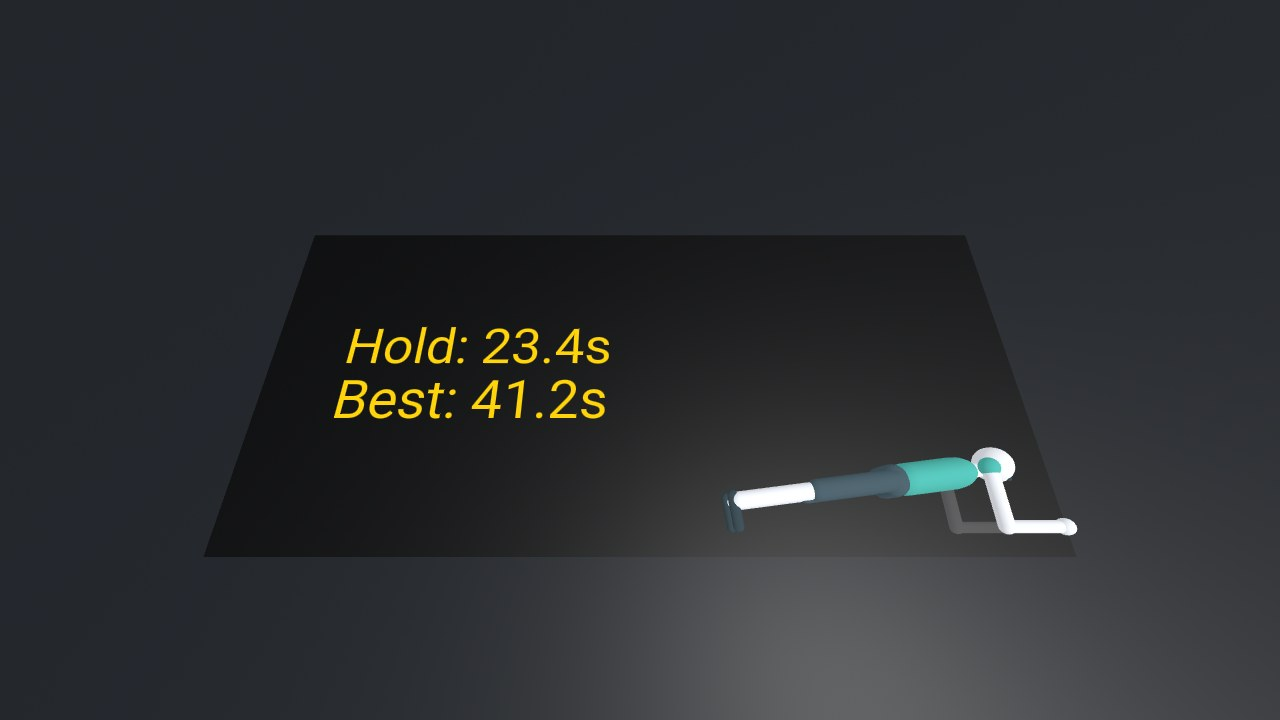
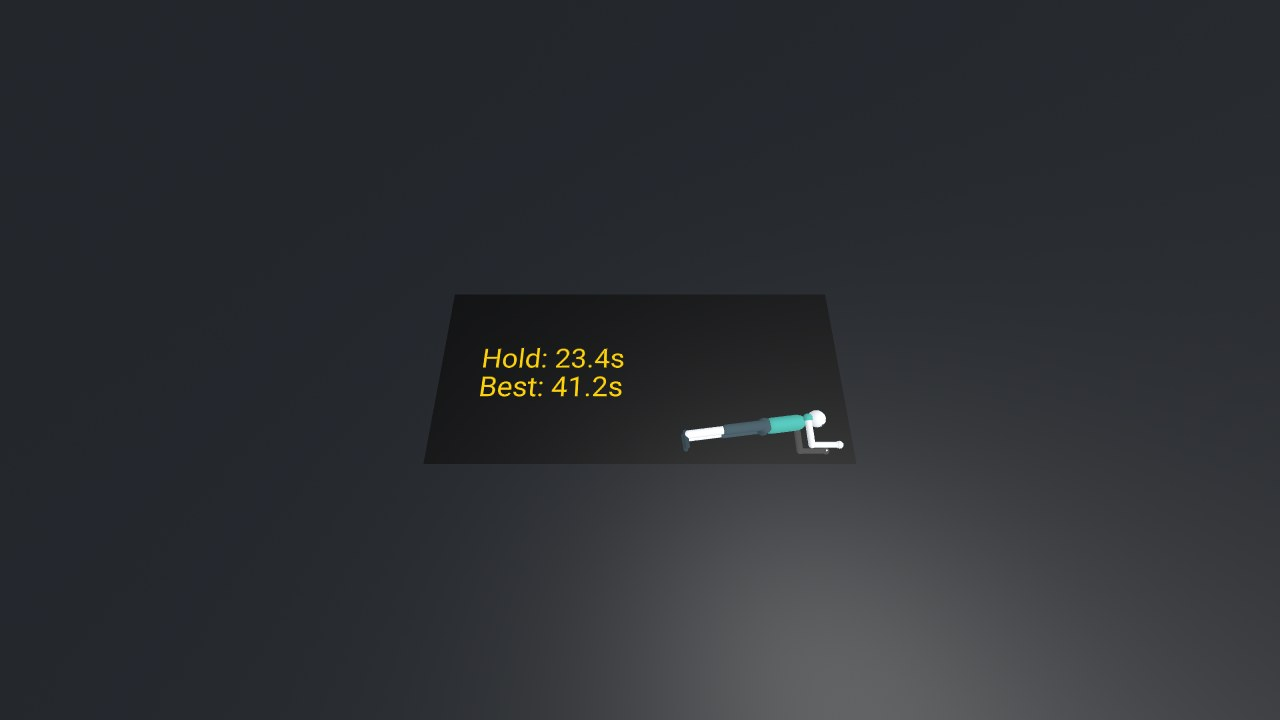
Smaller face counter; preview the next exercise during rests
The counter near the face is scaled to its distance from the eyes (about
50 deg wide): at full size it didn't fit in view on the floor under a
plank. During a rest, a smaller mannequin in an "UP NEXT" card under the
countdown shows the next exercise, while the big one keeps resting.
Tests: the counter's apparent width, every demo inside the card, the
countdown above it, and the card only during rests.

Changed region(s): [[0.1562, 0.3056, 0.5, 0.7944], [0.5312, 0.55, 0.8438, 0.7639], [0.1875, 0.5194, 0.2188, 0.55]]

diff --git a/www/js/app.js b/www/js/app.js
@@ -73,6 +73,12 @@ const NEAR_PANEL = 0.9;
 const FLOOR_AHEAD = 0.2;
 const FACE_DOWN = -0.5;
 const FACE_AHEAD = 0.7;
+// It is scaled to its distance from the eyes so it always spans about
+// FACE_LABEL_WIDTH meters per meter away (~50 deg, at most full size): on
+// the floor under a plank it's only 30-40 cm away, and at full size (1 m
+// wide) it didn't fit in view.
+const FACE_LABEL_WIDTH = 0.93;
+const FACE_LABEL_FULL = 1.0;   // #floorLabel's width at scale 1
 
 // Menu follow (XR only): when the menu is on screen and the user has turned
 // more than FOLLOW_ANGLE degrees away from it, or walked more than
@@ -112,9 +118,11 @@ const PANEL_HEAD = new THREE.Vector3();
 // Exercise vs rest look: rest gets a blue panel and a cyan countdown so it
 // can't be mistaken for an exercise. Panels are nearly opaque: over
 // passthrough, a see-through panel is hard to read.
+// During a rest the countdown moves up (counterY), making room for the
+// "UP NEXT" card under it (#nextCard, see showNext()).
 const LOOK = {
-  exercise: { bg: '#000000', opacity: 0.88, counter: '#ffeb3b' },
-  rest: { bg: '#0b3d5c', opacity: 0.92, counter: '#80deea' },
+  exercise: { bg: '#000000', opacity: 0.88, counter: '#ffeb3b', counterY: 0.05 },
+  rest: { bg: '#0b3d5c', opacity: 0.92, counter: '#80deea', counterY: 0.47 },
 };
 // Seconds before the end of a rest when the title turns to "GET READY"
 // (together with the countdown beeps).
@@ -158,9 +166,13 @@ export const gymApp = {
     this.floorLabel = document.querySelector('#floorLabel');
     this.floorLabelText = document.querySelector('#floorLabelText');
     // Demo avatars: on the exercise panel, and a small one on the floor
-    // counter (floor exercises). Both show the same pose.
+    // counter (floor exercises). Both show the same pose. A third one, in
+    // the "UP NEXT" card, previews the next exercise during a rest.
     this.mannequin = buildMannequin(document.querySelector('#demoAvatar'), 'mannequin');
     this.floorMannequin = buildMannequin(document.querySelector('#floorAvatar'), 'floorMannequin');
+    this.nextCard = document.querySelector('#nextCard');
+    this.nextMannequin = buildMannequin(document.querySelector('#nextAvatar'), 'nextMannequin');
+    this.next = null;
     this.current = null;
     this.run = null;
     this.clock = 0;
@@ -341,12 +353,14 @@ export const gymApp = {
     if (!low || gazeY(head) > FACE_DOWN) {
       o.position.set(0, 0, -FACE_AHEAD).applyQuaternion(head.quaternion).add(head.position);
       o.quaternion.copy(head.quaternion);
-      return;
+    } else {
+      const dir = this.headingOnFloor(head);
+      o.position.set(head.position.x + dir.x * FLOOR_AHEAD, 0.01, head.position.z + dir.z * FLOOR_AHEAD);
+      // Lie flat, with the top of the text pointing away from the user.
+      o.rotation.set(-Math.PI / 2, Math.atan2(-dir.x, -dir.z), 0, 'YXZ');
     }
-    const dir = this.headingOnFloor(head);
-    o.position.set(head.position.x + dir.x * FLOOR_AHEAD, 0.01, head.position.z + dir.z * FLOOR_AHEAD);
-    // Lie flat, with the top of the text pointing away from the user.
-    o.rotation.set(-Math.PI / 2, Math.atan2(-dir.x, -dir.z), 0, 'YXZ');
+    const width = FACE_LABEL_WIDTH * o.position.distanceTo(head.position);
+    o.scale.setScalar(Math.min(1, width / FACE_LABEL_FULL));
   },
   // Is the head too close to the exercise panel to read it (or behind it)?
   nearPanel: function (head) {
@@ -395,16 +409,20 @@ export const gymApp = {
     setShown(this.exercisePanel, false);
     this.mannequin.root.setAttribute('visible', false);
     this.floorLabel.setAttribute('visible', false);
+    this.showNext(null);
   },
   setLook: function (name) {
     const look = LOOK[name];
     this.exerciseBg.setAttribute('material', { color: look.bg, opacity: look.opacity });
+    const pos = this.repText.getAttribute('position');
+    this.repText.setAttribute('position', { x: pos.x, y: look.counterY, z: pos.z });
     this.repText.setAttribute('color', look.counter);
     this.floorLabelText.setAttribute('color', look.counter);
   },
   // Exercise screen, shared by single exercises and training sets.
   showExerciseScreen: function (skippable) {
     this.setLook('exercise');
+    this.showNext(null);
     this.clock = 0;
     this.lastMoves = 0;
     setShown(this.menuPanel, false);
@@ -432,13 +450,15 @@ export const gymApp = {
     this.clock = 0;
     this.lastMoves = 0;
     this.setLook(run.phase === 'rest' ? 'rest' : 'exercise');
+    this.showNext(run.phase === 'rest' ? exerciseById(nextStep(run).exercise) : null);
     if (run.phase === 'exercise') {
       this.current = { ex: run.ex, st: run.st };
       this.titleText.setAttribute('value', `${run.index + 1}/${steps.length}  ${run.ex.name.toUpperCase()}`);
       this.instrText.setAttribute('value', `${describeStep(currentStep(run))}. ${run.ex.instructions}`);
       this.skipBtn.querySelector('a-text').setAttribute('value', 'Skip');
     } else if (run.phase === 'rest') {
-      // No exercise demo during rest: the mannequin idles (see tick).
+      // No exercise demo on the big mannequin during rest: it idles (see
+      // tick), and the next exercise shows in the smaller "UP NEXT" card.
       const next = exerciseById(nextStep(run).exercise);
       this.current = { ex: null, st: null };
       this.titleText.setAttribute('value', 'REST');
@@ -513,6 +533,17 @@ export const gymApp = {
       resetPose(parts);
       pose(parts, this.clock);
     }
+    if (this.next) {
+      resetPose(this.nextMannequin);
+      this.next.demo(this.nextMannequin, this.clock);
+    }
+  },
+  // The "UP NEXT" card during a rest: the next exercise's demo, or null to
+  // hide it.
+  showNext: function (ex) {
+    this.next = ex;
+    this.nextCard.setAttribute('visible', !!ex);
+    if (ex) centerDemo(this.nextMannequin, ex.demo);
   },
   // Center the demo avatars on a new pose (see centerDemo() in avatar.js).
   centerAvatars: function (pose) {

diff --git a/www/index.html b/www/index.html
@@ -90,6 +90,14 @@
         width="1.45" wrap-count="19" color="#ffeb3b"></a-text>
       <a-plane id="demoFrame" width="1.24" height="1.46" position="0.78 0.13 0.005" color="#fff" opacity="0.07"></a-plane>
       <a-entity id="demoAvatar" position="0.66 -0.36 0.3" scale="0.45 0.45 0.45"></a-entity>
+      <!-- During a rest: what comes next, in a card under the countdown, with
+           a smaller mannequin (#nextAvatar) doing the next exercise's demo,
+           while the big one rests (see showNext() in app.js). -->
+      <a-entity id="nextCard" position="-0.66 -0.22 0" visible="false">
+        <a-plane id="nextFrame" width="1.28" height="1.0" position="0 0 0.005" color="#fff" opacity="0.07"></a-plane>
+        <a-text id="nextTitle" value="UP NEXT" align="center" position="0 0.43 0.01" width="1.3" color="#80deea"></a-text>
+        <a-entity id="nextAvatar" position="0 -0.31 0.24" scale="0.32 0.32 0.32"></a-entity>
+      </a-entity>
       <a-entity id="btnBack" class="button" geometry="primitive:plane; width:0.68; height:0.3"
         material="color:#555" position="-0.9 -0.9 0.01">
         <a-text value="Menu" align="center" position="0 0 0.01" color="#fff" width="2.4"></a-text>

diff --git a/CLAUDE.md b/CLAUDE.md
@@ -70,7 +70,7 @@ www/
   - `paced: true` (from `paced()`) marks untracked exercises: the app counts reps at a fixed tempo and plays a tick per rep
   - `equipment` (optional): `'chair' | 'band' | 'weights'`; `floor: true` for floor exercises. Together they give the menu group (`groupOf()` / `GROUPS` in `exercises/index.js`: Standing, Floor, Chair, Band, Weights). Everything must be doable at home with at most a chair, an elastic band or dumbbells. With a band or dumbbells in the hands the controllers can't be held, so those exercises must not rely on controllers (headset-tracked or paced).
   - `demo(parts, tSeconds)` poses the mannequin; it's reset to standing before every call
-- Training sets (`js/workouts.js`): `{ id, name, level, color, rest, steps: [{ exercise, reps } | { exercise, seconds }] }`, validated on load by `validateWorkout()`. `level` is one of `LEVELS` (`Easy`, `Medium`, `Hard`): harder = more reps, longer holds, shorter rests (`workout.mjs` checks the averages go that way). The equipment a set needs comes from its exercises (`equipmentOf()` in `workout-runner.js`) and shows on its menu button. The product direction is **training sets first, with configurable difficulty** (same exercises, other targets / rest). Single exercises stay for testing and debugging. `workout-runner.js` is pure logic: `updateRun()` / `skip()` return events (`stepDone`, `count`, `go`, `finished`, and `skipped` from `skip()`, so skipping into a rest still refreshes the screen), and `app.js` turns them into sounds (`sound.js`) and panel updates. Rest must never look like an exercise: blue panel and cyan countdown (`LOOK` / `setLook()` in `app.js`), the mannequin idles (`idle()` in `avatar.js`) instead of demoing the next exercise, and the title turns to `GET READY` for the last 3 s together with the countdown beeps. The next exercise's demo only appears when its step starts.
+- Training sets (`js/workouts.js`): `{ id, name, level, color, rest, steps: [{ exercise, reps } | { exercise, seconds }] }`, validated on load by `validateWorkout()`. `level` is one of `LEVELS` (`Easy`, `Medium`, `Hard`): harder = more reps, longer holds, shorter rests (`workout.mjs` checks the averages go that way). The equipment a set needs comes from its exercises (`equipmentOf()` in `workout-runner.js`) and shows on its menu button. The product direction is **training sets first, with configurable difficulty** (same exercises, other targets / rest). Single exercises stay for testing and debugging. `workout-runner.js` is pure logic: `updateRun()` / `skip()` return events (`stepDone`, `count`, `go`, `finished`, and `skipped` from `skip()`, so skipping into a rest still refreshes the screen), and `app.js` turns them into sounds (`sound.js`) and panel updates. Rest must never look like an exercise: blue panel and cyan countdown (`LOOK` / `setLook()` in `app.js`), the big mannequin idles (`idle()` in `avatar.js`) instead of demoing the next exercise, and the title turns to `GET READY` for the last 3 s together with the countdown beeps. The next exercise shows only as a preview: a smaller mannequin (`#nextAvatar`, root id `nextMannequin`) in the "UP NEXT" card (`#nextCard`, `showNext()` in `app.js`) under the countdown, which moves up during a rest (`LOOK.rest.counterY`). `avatar.mjs` checks every demo fits in that card, `textfit` that the countdown stays above it.
 - Sounds (`js/sound.js`): every finished step plays a sound (a fanfare for the last one), paced reps tick, and the rest counts down 3-2-1. Every other counted move plays a `ding` and pops the counter (`tickMoves()` / `popCounter()` in `app.js`). A move is what `movesOf()` in `exercises/index.js` returns: whole reps, 10 s of a hold, or an exercise's own `moves(st)` (curls: each arm's curl). A step's last move gets the step's sound instead of a ding. Browsers need a user gesture before audio plays, so handlers go through `onClick()` in `app.js`, which calls `unlockAudio()`.
 - Confetti (`js/components/confetti.js`, on `#confetti`, directly in the scene since it's placed in world space from the head pose): `throwConfetti()` in `app.js` bursts it 80 cm along the gaze on every `stepDone` (not on skips), with more pieces on `finished` (also when the last step was skipped: the set is still done). The pieces land and lie flat on the floor (y = 0), then shrink away. One `InstancedMesh`, so it stays cheap on a Quest.
 - Panels are nearly opaque (0.88; rest 0.92): at 0.65 they were too see-through to read comfortably over passthrough.
@@ -82,7 +82,7 @@ www/
 - Text: A-Frame's default font only has basic Latin characters. An em dash (—), middle dot (·) or similar just disappears, so use plain `-`, `:` or `,`. Keep `a-text` `width` (its wrap width) inside the panel.
 - Mannequin (`js/avatar.js`): joint tree `root > pelvis > spine > head / shoulderL,R > elbowL,R` and `pelvis > hipL,R > kneeL,R > ankleL,R`. `root` sits on the floor (y = 0) between the feet; `pelvis` is at `PELVIS_Y` when standing. Segment lengths are in `BODY`. Pose with `rot(el, x, y, z)` (degrees, writes `object3D` directly), `place(el, x, y, z)` and `turn(parts, deg)` (0 = facing the viewer, 90 = side view). `app.js` calls `resetPose()` every frame before `demo()`.
   - Look: rounded and friendly (an earlier boxy version looked chunky and a bit scary). Body parts are capsules (`geometry="primitive: capsule"`, defined in `js/components/capsule.js` and registered by `avatar.js` itself, its only user) and spheres, in soft colors, with small eyes. Every body part has class `part` (tests measure them). Keep it slim, and keep the torso `BODY.torsoDepth` deep (lying poses rest on it).
-  - `buildMannequin(holder, id)` builds one inside any holder entity, which places and scales it. There are two: `#demoAvatar` (45% size, in the exercise panel's frame, root id `mannequin`) and `#floorAvatar` (on the floor counter, root id `floorMannequin`). Both show the same pose. Demos always pose a full-size body standing on the holder's y = 0, seen from the holder's +Z.
+  - `buildMannequin(holder, id)` builds one inside any holder entity, which places and scales it. There are three: `#demoAvatar` (45% size, in the exercise panel's frame, root id `mannequin`) and `#floorAvatar` (on the floor counter, root id `floorMannequin`), which show the same pose, and `#nextAvatar` (the rest's "UP NEXT" preview, root id `nextMannequin`). Demos always pose a full-size body standing on the holder's y = 0, seen from the holder's +Z.
   - `centerDemo()` shifts each demo sideways (`parts.shiftX`) so all its poses are centered in the frame, since lying poses stick out further on the legs' side. `app.js` calls it when the pose changes (`centerAvatars()`).
   - Props (`showChair()`, `showDumbbells()`, `showBand()`, `showWall()` in `avatar.js`): a chair (seat top at `CHAIR_SEAT_Y`), dumbbells in the hands, an elastic band stretched between two body points (`handOf()`, `kneeOf()`, `footOf()`; call it after posing), a wall. They have class `prop` (not `part`). `resetPose()` hides them all by taking their `object3D` out of the scene graph (invisible objects still count in `Box3.setFromObject()`), so a demo shows the ones it needs every frame.
   - `resetPose()` also resets each joint's Euler order to `XYZ`, so a demo may change it.
@@ -100,7 +100,7 @@ www/
 - Rig: `#rig > #camera`, `#rightPointer` / `#leftPointer` (`xr-pointer`), `#rightHand` / `#leftHand` (controller models + button events), `#floorLabel`. Buttons get class `button`; raycasters target `.clickable`, which `setShown()` in `app.js` adds only while a button is visible. A-Frame raycasters ignore `visible`, so hidden buttons would otherwise steal clicks. Always show or hide UI with `setShown()`, never with `setAttribute('visible')` alone.
 - Shared tracking and rep-detection helpers go in `js/tracking.js`. Exercises get `ctx.hands = readHands(scene)`: `{ left, right }`, each `{ tracked, kind: 'controller' | 'hand' | null, position, emulated, rayTracked, ray }`. `emulated` = position only estimated (don't detect moves with it), and `ray` = pointing direction (the laser). It is read straight from the WebXR session (grip space, or the wrist joint for hands without one), so controllers and bare hands work the same. Never read hand positions from the `#rightHand` / `#leftHand` entities: they only cover controllers, and they freeze at their last position when tracking is lost.
 - Plank (`js/exercises/plank.js`) is automatic, with no buttons. A hold starts when the head is 15 to 60 cm above the floor and the face points at least 40° down. Its average height over that first second becomes the reference, and the hold then continues while the head stays within 10 cm below and 12 cm above it, with the face at least 30° down. History: a fixed 25 to 80 cm / 60° window missed real planks (the floor height is the Quest's estimate, and a forearm plank puts the headset only 25 to 45 cm up). A loose fixed window for holds (5 to 95 cm) kept counting when the user lay down or almost sat up. The window relative to the start height fixes both. Looking up (lying on the back) never counts. The timer starts after 1 s in position (and counts it) and stops after 1 s out of position (without counting it). Below 90 cm, when not in position, the counter says what's off with the measured value (`Head lower (85 cm)`, `Face the floor (10 deg)`), so the user can report numbers for tuning. Keep exercises hands-free and automatic: no Start/Stop buttons (nobody can press them mid-plank).
-- Face counter (`#floorLabel` in `#rig`, `updateFloorLabel()` in `app.js`): during any exercise, while the head is below 0.9 m or less than 0.9 m from the exercise panel's plane (leaning toward it over a chair: the panel is then too close to read), the counter shows near the face, with the small demo avatar (`#floorAvatar`) on its right. Low and facing the floor (gaze y < -0.5: plank, push-ups), it lies on the floor 20 cm ahead of the face, reading away from the user. Otherwise (lying on the back, side plank, near the panel) it floats 70 cm in front of the face, facing it. Don't put it where the user must look down during an exercise that needs the head up: an earlier version put it on the floor during side planks, people looked down at it, and the side plank (which needs the face forward) never started. Keep counter labels short, since this label is small (`textfit` checks every exercise's counter fits left of the avatar).
+- Face counter (`#floorLabel` in `#rig`, `updateFloorLabel()` in `app.js`): during any exercise, while the head is below 0.9 m or less than 0.9 m from the exercise panel's plane (leaning toward it over a chair: the panel is then too close to read), the counter shows near the face, with the small demo avatar (`#floorAvatar`) on its right. Low and facing the floor (gaze y < -0.5: plank, push-ups), it lies on the floor 20 cm ahead of the face, reading away from the user. Otherwise (lying on the back, side plank, near the panel) it floats 70 cm in front of the face, facing it. It is scaled to its distance from the eyes so it always spans about 50 degrees (`FACE_LABEL_WIDTH`, never above full size): at full size (1 m wide) it didn't fit in view on the floor under a plank. Don't put it where the user must look down during an exercise that needs the head up: an earlier version put it on the floor during side planks, people looked down at it, and the side plank (which needs the face forward) never started. Keep counter labels short, since this label is small (`textfit` checks every exercise's counter fits left of the avatar).
 - Input: there is exactly **one click path per mode**. In XR, `xr-pointer` (`js/components/xr-pointer.js`, `#rightPointer` / `#leftPointer`) handles both controllers and bare hands. Its ray follows the hand's WebXR target ray, and the session `select` event (trigger or pinch) from that hand clicks the first `.clickable` hit, once. On desktop, `cursor="rayOrigin: mouse"` on `<a-scene>` handles clicks. **Never add another A-Frame `cursor` (and so no `laser-controls`)**: in A-Frame 1.5, every cursor that isn't `rayOrigin: mouse` subscribes to the XR session's selectstart/selectend from *all* hands on enter-vr. A leftover head-gaze cursor made every trigger or pinch also click whatever the head was facing. `#rightHand` / `#leftHand` (`oculus-touch-controls`) are only for A/B/X/Y events (their models are `flat-only`, so hidden in AR). There are no hand models: in AR the real hands show. Every action must be reachable without controllers (B / Y are only shortcuts).
 - Bicep Curls (`js/exercises/curls.js`) counts each arm separately, with two detectors per arm, and a rep counts when either one sees a full curl. When a rep counts, both restart, so one curl never counts twice.
   - **Height:** the hand rises 30 cm above its lowest point to at least chest height (45 cm below the eyes), then drops 30 cm. The thresholds are relative, so they work across body sizes.

diff --git a/README.md b/README.md
@@ -63,12 +63,13 @@ Pick a training set and follow it: each step has a target, with a rest in betwee
 ![The menu: training sets by level, and the equipment you have](docs/screenshots/menu-sets.jpg)
 
 Rest looks clearly different from exercise, so you never start too early: a blue screen, a
-countdown, and "GET READY" with three beeps before the next step. Finish a step and you get
+countdown, and "GET READY" with three beeps before the next step. While the coach rests, a
+smaller one shows what's up next, so you can get ready for it. Finish a step and you get
 confetti; finish the whole set and you get a lot more.
 
 | Resting | Step done |
 |---|---|
-| ![The rest screen with its countdown](docs/screenshots/rest.jpg) | ![Confetti after a step](docs/screenshots/confetti.jpg) |
+| ![The rest screen: countdown, the resting coach, and the next exercise](docs/screenshots/rest.jpg) | ![Confetti after a step](docs/screenshots/confetti.jpg) |
 
 ### 29 exercises, at home
 
